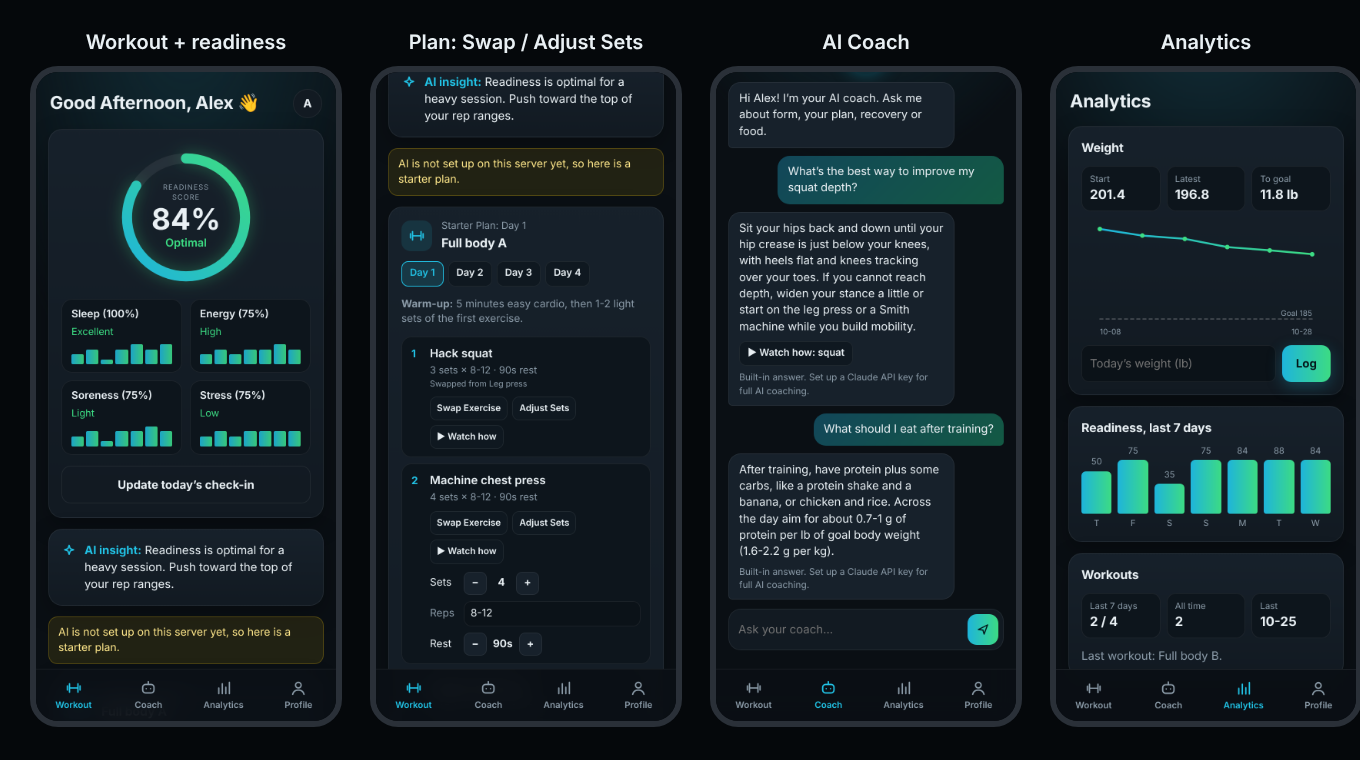
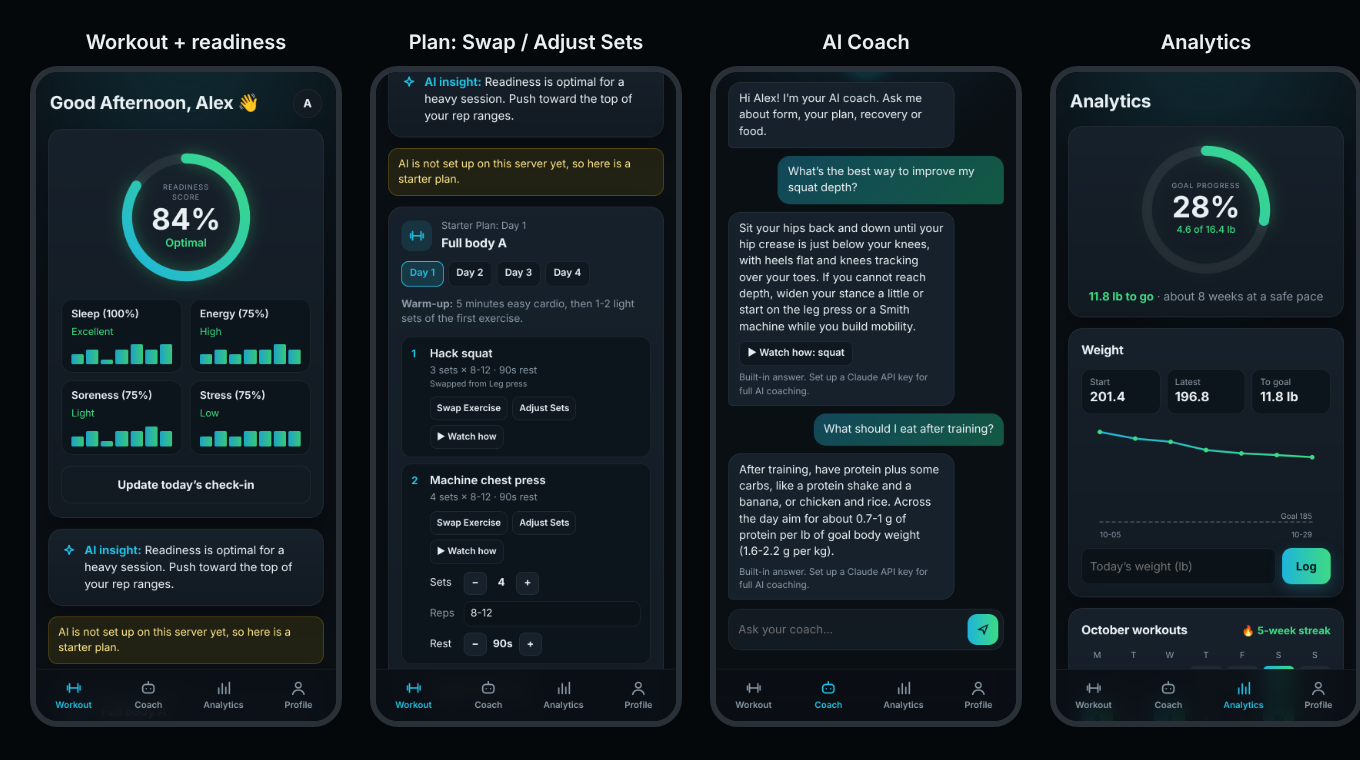
Combine both Analytics layouts: goal ring, weight, workout calendar and streak
Claude-Session: https://claude.ai/code/session_01N7qQZ71DNAgCjjhprXNEqL

diff --git a/public/app.js b/public/app.js
@@ -1,6 +1,7 @@
 import { videoUrl } from './video.js';
 import { FACTORS, factorPercent, factorWord, readinessAdvice, readinessLabel, readinessScore } from './readiness.js';
 import { swapExercise, swapOptions } from './swaps.js';
+import { goalProgress, monthCalendar, weekStreak } from './progress.js';
 
 const $ = (id) => document.getElementById(id);
 const form = $('profile');
@@ -389,22 +390,50 @@ function weightChart(points, goal) {
     </svg>`;
 }
 
+function goalRing(pct, line) {
+  const r = 70;
+  const c = 2 * Math.PI * r;
+  return `
+    <div class="ring" role="img" aria-label="${pct}% of the way to your goal">
+      <svg viewBox="0 0 168 168" aria-hidden="true">
+        <defs><linearGradient id="goal-grad" x1="0" y1="0" x2="1" y2="1"><stop offset="0" stop-color="#1fb5dc"/><stop offset="1" stop-color="#3ddc84"/></linearGradient></defs>
+        <circle class="track" cx="84" cy="84" r="${r}" stroke-width="12"/>
+        <circle cx="84" cy="84" r="${r}" stroke-width="12" stroke="url(#goal-grad)" stroke-dasharray="${c}" stroke-dashoffset="${c * (1 - pct / 100)}"/>
+      </svg>
+      <div class="ring-label"><small>Goal progress</small><strong>${pct}%</strong><span class="muted">${esc(line)}</span></div>
+    </div>`;
+}
+
 function renderAnalytics() {
   const f = last?.form;
   const unit = f?.unit ?? 'lb';
   const goal = f ? Number(f.goalWeight) : NaN;
   const weights = load(KEYS.weights, []).slice(-30);
   const latest = weights.at(-1)?.weight;
-  const start = weights[0]?.weight;
+  const start = weights[0]?.weight ?? (f ? Number(f.currentWeight) : undefined);
   const toGo = Number.isFinite(goal) && latest != null ? Math.round(Math.abs(latest - goal) * 10) / 10 : null;
+  const progress = goalProgress(start, latest ?? start, goal);
+  const rate = last?.data?.analysis?.weeklyRate;
+  const weeksLeft = progress && rate > 0 ? Math.ceil(progress.remaining / rate) : null;
 
   const checkins = load(KEYS.checkins, []);
   const week = Array.from({ length: 7 }, (_, i) => { const date = daysAgo(6 - i); return { date, c: checkins.find((x) => x.date === date) }; });
+  const weekScores = week.filter((w) => w.c).map((w) => readinessScore(w.c));
+  const avgReadiness = weekScores.length ? Math.round(weekScores.reduce((a, b) => a + b, 0) / weekScores.length) : null;
   const sessions = load(KEYS.sessions, []);
+  const dates = sessions.map((s) => s.date);
   const weekCount = sessions.filter((s) => s.date >= daysAgo(6)).length;
   const target = Number(f?.daysPerWeek) || 3;
+  const streak = weekStreak(dates, today());
+  const month = new Date().toLocaleDateString(undefined, { month: 'long' });
+  const cells = monthCalendar(today(), dates);
 
   $('analytics').innerHTML = `
+    ${progress ? `
+    <div class="card goal-card">
+      <div class="ring-wrap">${goalRing(progress.pct, progress.total ? `${progress.done} of ${progress.total} ${unit}` : 'Holding steady')}</div>
+      <p>${progress.remaining <= 0 ? '<b class="ok">Goal reached!</b>' : `<b class="ok">${progress.remaining} ${unit} to go</b>${weeksLeft ? `<span class="muted"> · about ${weeksLeft} weeks at a safe pace</span>` : ''}`}</p>
+    </div>` : ''}
     <div class="card">
       <h2>Weight</h2>
       <div class="stat-row">
@@ -420,20 +449,24 @@ function renderAnalytics() {
       </form>
     </div>
     <div class="card">
+      <div class="cal-head"><h2>${esc(month)} workouts</h2>${streak ? `<span class="streak">🔥 ${streak}-week streak</span>` : ''}</div>
+      <div class="cal" role="img" aria-label="${dates.filter((d) => d.startsWith(today().slice(0, 7))).length} workouts this month">
+        ${['M', 'T', 'W', 'T', 'F', 'S', 'S'].map((d) => `<small>${d}</small>`).join('')}
+        ${cells.map((c) => (c ? `<i class="${c.done ? 'done' : ''}${c.date === today() ? ' today' : ''}${c.future ? ' future' : ''}">${c.day}</i>` : '<i class="pad"></i>')).join('')}
+      </div>
+      <div class="stat-row">
+        <div class="stat"><small>Last 7 days</small><b>${weekCount} / ${target}</b></div>
+        <div class="stat"><small>Avg readiness</small><b>${avgReadiness != null ? `${avgReadiness}%` : '--'}</b></div>
+        <div class="stat"><small>All time</small><b>${sessions.length}</b></div>
+      </div>
+      ${sessions.length ? '' : '<p class="muted">Tap “Mark workout done” on the Workout tab after each session.</p>'}
+    </div>
+    <div class="card">
       <h2>Readiness, last 7 days</h2>
       <div class="week-bars">${week.map(({ date, c }) => {
         const s = c ? readinessScore(c) : 0;
         return `<div>${c ? s : ''}<i class="${c ? '' : 'none'}" style="height:${c ? Math.max(6, s) : 6}%"></i>${shortDay(date)}</div>`;
       }).join('')}</div>
-    </div>
-    <div class="card">
-      <h2>Workouts</h2>
-      <div class="stat-row">
-        <div class="stat"><small>Last 7 days</small><b>${weekCount} / ${target}</b></div>
-        <div class="stat"><small>All time</small><b>${sessions.length}</b></div>
-        <div class="stat"><small>Last</small><b>${sessions.length ? esc(sessions.at(-1).date.slice(5)) : '--'}</b></div>
-      </div>
-      <p class="muted">${sessions.length ? `Last workout: ${esc(sessions.at(-1).focus)}.` : 'Tap “Mark workout done” on the Workout tab after each session.'}</p>
     </div>`;
 
   $('weight-form').addEventListener('submit', (e) => {

diff --git a/public/progress.js b/public/progress.js
@@ -1,0 +1,54 @@
+// Goal progress, workout streaks and the month calendar on the Analytics tab.
+// Dates are local "YYYY-MM-DD" strings.
+
+const round1 = (n) => Math.round(n * 10) / 10;
+
+// How far from start weight to goal weight you are, as 0-100.
+export function goalProgress(start, latest, goal) {
+  if (![start, latest, goal].every(Number.isFinite)) return null;
+  const total = Math.abs(goal - start);
+  if (total === 0) return { pct: 100, done: 0, total: 0, remaining: round1(Math.abs(goal - latest)) };
+  const moved = (latest - start) * Math.sign(goal - start); // negative if going the wrong way
+  const done = Math.min(total, Math.max(0, moved));
+  return {
+    pct: Math.round((done / total) * 100),
+    done: round1(done),
+    total: round1(total),
+    remaining: round1(total - done),
+  };
+}
+
+const parse = (iso) => { const [y, m, d] = iso.split('-').map(Number); return new Date(y, m - 1, d); };
+const fmt = (d) => `${d.getFullYear()}-${String(d.getMonth() + 1).padStart(2, '0')}-${String(d.getDate()).padStart(2, '0')}`;
+
+// Monday of the week the date falls in.
+export function weekStart(iso) {
+  const d = parse(iso);
+  d.setDate(d.getDate() - ((d.getDay() + 6) % 7));
+  return fmt(d);
+}
+
+// Weeks in a row with at least one workout. This week counts if it has one,
+// but an empty current week does not break the streak yet.
+export function weekStreak(dates, today) {
+  const weeks = new Set(dates.map(weekStart));
+  const d = parse(weekStart(today));
+  if (!weeks.has(fmt(d))) d.setDate(d.getDate() - 7);
+  let streak = 0;
+  while (weeks.has(fmt(d))) { streak += 1; d.setDate(d.getDate() - 7); }
+  return streak;
+}
+
+// Cells for a Monday-first month grid: null for padding, else { date, day, done }.
+export function monthCalendar(today, dates) {
+  const t = parse(today);
+  const first = new Date(t.getFullYear(), t.getMonth(), 1);
+  const days = new Date(t.getFullYear(), t.getMonth() + 1, 0).getDate();
+  const done = new Set(dates);
+  const cells = Array((first.getDay() + 6) % 7).fill(null);
+  for (let day = 1; day <= days; day++) {
+    const date = fmt(new Date(t.getFullYear(), t.getMonth(), day));
+    cells.push({ date, day, done: done.has(date), future: date > today });
+  }
+  return cells;
+}

diff --git a/public/style.css b/public/style.css
@@ -158,6 +158,19 @@ input, select, textarea { font: inherit; color: var(--text); background: #0b1218
 .week-bars i { width: 100%; border-radius: 6px 6px 3px 3px; background: var(--grad); min-height: 3px; }
 .week-bars i.none { background: rgba(255, 255, 255, .06); }
 .card h2 { font-size: 1rem; }
+.goal-card { text-align: center; }
+.goal-card .ring-wrap { margin: 0 0 10px; }
+.goal-card .ring-label span { font-weight: 500; font-size: .78rem; }
+.ok { color: var(--green); }
+.cal-head { display: flex; justify-content: space-between; align-items: baseline; gap: 8px; }
+.streak { color: var(--green); font-weight: 700; font-size: .85rem; white-space: nowrap; }
+.cal { display: grid; grid-template-columns: repeat(7, 1fr); gap: 6px; margin-top: 12px; }
+.cal small { text-align: center; color: var(--muted); font-size: .7rem; }
+.cal i { aspect-ratio: 1; border-radius: 7px; background: rgba(255, 255, 255, .05); font-style: normal; font-size: .7rem; color: var(--muted); display: grid; place-items: center; }
+.cal i.pad { background: none; }
+.cal i.future { opacity: .45; }
+.cal i.done { background: var(--grad); color: #04161a; font-weight: 700; }
+.cal i.today { outline: 2px solid var(--teal); outline-offset: -2px; }
 
 /* Bottom sheet (check-in, swap) */
 .sheet { border: 1px solid var(--line); border-radius: 22px 22px 0 0; background: var(--card); color: var(--text); width: 100%; max-width: 480px; margin: auto auto 0; padding: 20px 16px calc(20px + env(safe-area-inset-bottom)); max-height: 85vh; }

diff --git a/README.md b/README.md
@@ -12,7 +12,7 @@ The app has four tabs, styled as a dark mobile app:
 
 - **Workout**: greeting, a daily readiness score from a quick check-in (sleep, energy, soreness, stress, each rated 1-5), an insight for today, and today's workout. Each exercise has **Swap Exercise**, **Adjust Sets** and **Watch how**. **Regenerate Plan** builds a fresh plan, and **Mark workout done** logs the session.
 - **Coach**: chat with the AI coach about form, food and recovery. It knows your goal, today's workout and readiness. Without an API key it gives short built-in answers.
-- **Analytics**: weight trend against your goal, readiness for the last 7 days, and workouts logged.
+- **Analytics**: a goal progress ring with weeks to go, weight trend against your goal, a month calendar of workouts with your weekly streak, and readiness for the last 7 days.
 - **Profile**: your name, weights and training details (and the API key on Android).
 
 With **Full gym** selected, plans and swaps use machines and cables first, and free weights only where there's no good machine option. The readiness score comes from the check-in, not from a wearable, and all history is stored only in your browser or phone.
@@ -73,7 +73,7 @@ Tests use a fake Claude client, so they don't need a key or network.
 | `server.mjs` | Small Node HTTP server: `POST /api/plan`, `POST /api/coach`, `GET /api/health`, static files. |
 | `plan-service.mjs` | Turns a form into a plan response; shared by the server and the Android app. |
 | `android/` | Android app: a WebView around the bundled page (`android/web/` adds on-phone plan building). |
-| `public/` | The page (plain HTML, CSS and JS; works on phones and can be added to the home screen). `readiness.js` scores check-ins, `swaps.js` picks exercise swaps. |
+| `public/` | The page (plain HTML, CSS and JS; works on phones and can be added to the home screen). `readiness.js` scores check-ins, `swaps.js` picks exercise swaps, `progress.js` works out goal progress, streaks and the calendar. |
 
 ## Deploy
 
